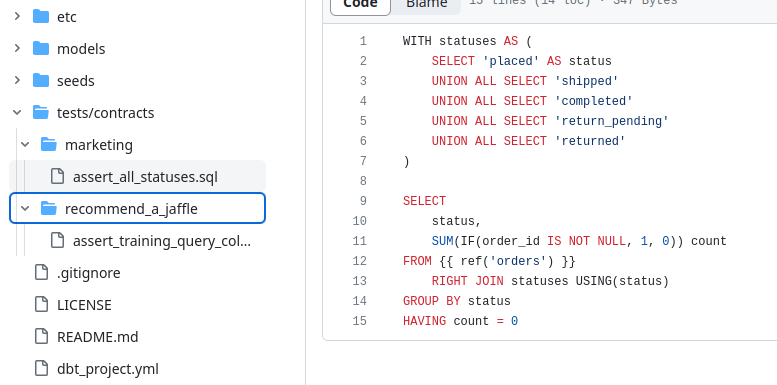
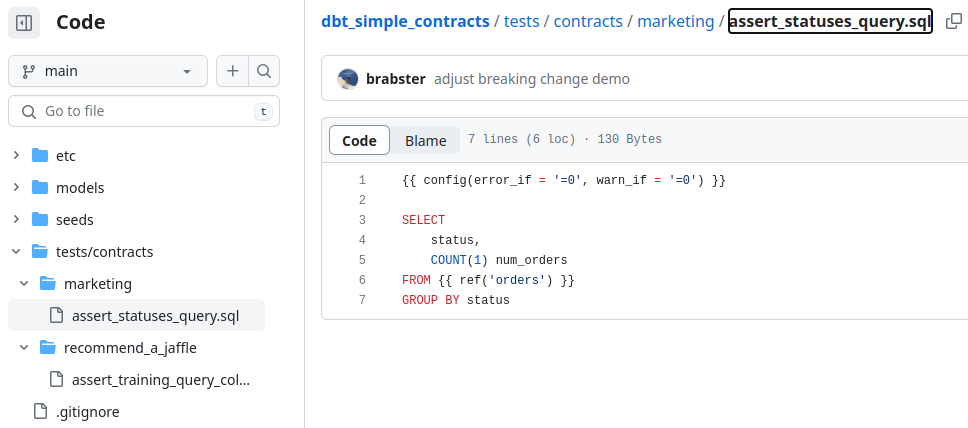
finalise post

diff --git a/content/posts/2023-05-19-dbt-contracts-in-sql/index.md b/content/posts/2023-05-19-dbt-contracts-in-sql/index.md
@@ -1,8 +1,9 @@
 ---
-title: Consumer-Driven Contracts SQL Data Products
+_build:
+  list: never
+title: Consumer-Driven Contracts for SQL Data Products
 date: 2023-05-19
 category: SQL
-draft: true
 tags:
  - dbt
  - sql
@@ -10,7 +11,7 @@ tags:
  - data-mesh
 ---
 
-> [dbt announced "model contracts"](https://docs.getdbt.com/docs/collaborate/govern/model-contracts) in the recent v1.5 release. This looks like a great feature for dbt, but reminded me that I've been using contract testing with dbt for a couple of years now, [inspired by Pact](https://docs.pact.io/), but never talked about it. Whilst dbt's new feature is very dbt-centric, the approach I've used isn't - dbt certainly helps, but isn't necessary.
+[dbt announced "model contracts"](https://docs.getdbt.com/docs/collaborate/govern/model-contracts) in the recent v1.5 release. This looks like a great feature for dbt, but reminded me that I've been using contract testing with dbt for a couple of years now, [inspired by Pact](https://docs.pact.io/) consumer-driven contracts, but never talked about it. There are some differences, for example: dbt's new feature is very dbt-centric, the approach I've used isn't - dbt certainly helps, but it isn't necessary. There's a [GitHub repo](https://github.com/brabster/dbt_simple_contracts) to follow along with.
 
 <!--more-->
 
@@ -22,21 +23,43 @@ tags:
 
 For an API-based digital product interface, a consumer-driven contract might say that in response to a query API call, the consumer expects a response in JSON containing a property "userId" that is a string. The provider can test any changes against the contract to ensure they do not break this expectation. The contract provides a means and a motivation for the consumer to clearly express important expectations.
 
-The technical specifics aren't important. The same approach works with the same benefits for a SQL-based digital product interface. In this case, the same contract might say that in response to a SQL query, the consumer expects a table result containing a column "userId" that is a string.
+The same approach works with the same benefits for a SQL-based digital product interface. In this case, the same contract might say that in response to a SQL query, the consumer expects a table result containing a column "userId" that is a string.
 
 ## The Digital Jaffle Shop
 
-I'll show you what I mean with [dbt-labs' Jaffle Shop demo project](https://github.com/dbt-labs/jaffle_shop) as our producer. In the lineage graph below, we can see some raw relations[^nomenclature] feeding some staging relations to produce a `customers` and an `orders` relation.
+I'll show you what I mean with [dbt-labs' Jaffle Shop demo project](https://github.com/dbt-labs/jaffle_shop) as our producer, and we are the product team looking after it. In the lineage graph below, we can see some raw relations[^nomenclature] feeding some staging relations to produce a `customers` and an `orders` relation.
 
 ![Lineage graph for the demo Jaffle Shop project with a line indicaing which relations are private and which are consumer-facing](Jaffle_shop_graph.png)
 
-The right-most relations, `customers` and `orders`, are our customer-facing interface. The "upstream" relations are implementation details and hidden from consumers, ideally by permissions. Besides potentially protecting more sensitive data, this hiding of implementation detail is important for stable contracts - you'll see why later.
+The right-most relations, `customers` and `orders`, are our customer-facing interface. The "upstream" relations are implementation details and hidden from consumers, ideally by permissions. Besides potentially protecting more sensitive data, this hiding of implementation detail from consumers is important for stable contracts. Without it, we lack the flexibility to adapt to change whilst holding the contract stable.
 
 Consumers can only see `orders` and `customers`, so we only accept contracts against these relations.
 
+## Jaffle Sales
+
+Marketing need to run a variety of ad-hoc reports about orders in the various order statuses. They don't want to come in one morning to find their queries don't work, so they want to make a contract. With our help them put together the PR for this SQL.
+
+```sql
+{{ config(error_if = '<3', warn_if = '<3') }} -- configure the test to fail if there are not enough statusres
+SELECT
+    status,
+    COUNT(1) num_orders
+FROM {{ ref('orders') }}
+WHERE status in ('complete', 'returned', 'return_pending')
+GROUP BY status
+```
+
+What expectations are expressed here?
+- this specific, important (to the consumer) query works
+- there's a `status` column
+- there's a row in the results for each of the specified statuses (by the `error_if` config)
+- the SQL dialect I'm using works with the provider's warehouse
+
+Well, it's maybe not how I would have written it but I understand it and it works. Let's move on.
+
 ## Recommend-A-Jaffle
 
-Marketing is convinced that the next big thing in the jaffle industry is recommendations, so we've got a new consumer. This consumer needs to know a little about customers and orders, then they'll join that with other information in the business and perform some machine learning magic.
+The CEO is convinced that the next big thing in the jaffle industry is recommendations, so we've got a new consumer. This consumer needs to know a little about customers and orders, then they'll join that with other information in the business and perform some machine learning magic.
 
 After some heavy duty, caffeine-fuelled data sciencing, the recommender team settles on this query to produce the data they need to train and test their model.:
 
@@ -52,41 +75,36 @@ WHERE order_date > CURRENT_DATE - INTERVAL 90 DAY
 
 The data produced by this query is munched by some machine learning models wrapped in Python code. The team building the consumer product is working flat out and could really do with some reliability from the producer, so they're happy to pop a ticket on the board to set up a contract with the Jaffle Shop producer.
 
-## A Simple Contract
-
 The recommender team could start simple with the query as it stands as a contract. We can turn it into an efficient test that the expected columns are present like this:
 
 ```sql
 SELECT
-    customer_id,
-    order_id,
-    order_date,
-    status
+    customer_id + 1, -- number
+    order_id + 1, -- number
+    order_date + INTERVAL 1 DAY, -- date-like
+    status || 'x' -- string
 FROM {{ ref('orders') }}
-LIMIT 0
 ```
 
-If a column is missing, the query will error out. If it succeeds, in most modern data warehouses, it will be optimised away by the `LIMIT 0`.
+Those operations on each column look a bit weird, but they effectively assert column type and generally produce a reasonably informative error message. I'm not making a statement on correctness of that approach, but if a consumer proposed it as a contract I'd have a hard time arguing the clarity and simplicity of it! If a column is missing, the query will error out.
 
-What the recommender team wants now is a way to provide this test to the Jaffle Shop team in such a manner that it must pass before a change can be rolled out. I'll show you what I think is the simplest way to do that next.
+What both teams need is a way to provide their tests to the Jaffle Shop team in such a manner that it must pass before a change can be rolled out. I'll show you what I think is the simplest way to do that next.
 
-## A Simple Provide Contract Test Setup
+## A Simple Provider Contract Test Setup
 
-We can just create a subdirectory of `tests/contract` in our `dbt` project, and have each consumer contribute their tests directly via a merge or pull request process. `dbt` will, by default, run their tests as part of a `build` or `test` operation.
-
-Wait - a second consumer just showed up. Marketing need to run reports about how many orders are in the various order statuses. They want to make a contract too, so we help them put together the PR and we're left with this structure.
+We create a subdirectory of `tests/contract` in our dbt project. We'll have each consumer contribute their tests directly via a merge or pull request process. dbt will, by default, run their tests as part of a `build` or `test` operation.
 
 ![Screenshot of repository showing the contracts directory structure with a marketing dir containing the marketing test and a recommend_a_jaffle dir containing the recommender test](contracts_examples.png)
 
 Let's run a `dbt test` for everything under contracts and see what happens...
 
 ```bashsession
-jaffle_shop$ dbt test -s tests/contracts
+jaffle_shop$ dbt test -s contracts
 ...
-21:29:39  1 of 2 START test assert_all_statuses .......................................... [RUN]
-21:29:39  1 of 2 PASS assert_all_statuses ................................................ [PASS in 0.07s]
-21:29:39  2 of 2 START test assert_training_query_columns ................................ [RUN]
-21:29:39  2 of 2 PASS assert_training_query_columns ...................................... [PASS in 0.04s]
+21:29:39  1 of 2 START test assert_all_statuses ...................... [RUN]
+21:29:39  1 of 2 PASS assert_all_statuses ............................ [PASS in 0.07s]
+21:29:39  2 of 2 START test assert_training_query_columns ............ [RUN]
+21:29:39  2 of 2 PASS assert_training_query_columns .................. [PASS in 0.04s]
 21:29:39  
 21:29:39  Finished running 2 tests in 0 hours 0 minutes and 0.25 seconds (0.25s).
 21:29:39  
@@ -97,42 +115,100 @@ jaffle_shop$ dbt test -s tests/contracts
 
 So far so good - if the consumers had submitted a contract test that didn't work against the current product then our pull request process would have caught it and prevented any confusion.
 
-## Move Fast and Break Stuff. Or Not.
+## Roles and Responsibilities
 
-Let's make a dumb change that obviously breaks things - let's rename  a column - `status` to `order_status`.
-We make the changes and run `dbt build --exclude tests/contracts` - all green. When we run the contract tests:
+When a consumer team submit their PR, we have an opportunity to take a look and request changes before accepting. The recommender team's contract, for example, could be expensive as it actually processes every row in the relation, even though it's really just doing a schema test. Depending on our database technology, we could ask them to use to the information schema to do that, or just add a `LIMIT 0` so that the query optimiser can recognise that no processing in necessary and optimise it away.
+
+A key consideration in my approach to this is that the provider is not forced to accept a consumer contract.
+Providers are naturally incentivised to try to accept consumer contracts. Amongst the stability and insights benefits, a consumer-driven contract capability shifts some responsiblity for stability from the producer onto consumers. A consumer can't really blame a provider for breaking somehing they never said they needed. Feels kinda liberating, actually.
+The provider needs to be able to refuse unreasonable or incorrect expecations, so that the emphasis is on a collaborative effort between equal parties for mutual benefit.
+
+A note on usage - a lot of insight into expecatations can be gleaned from reviewing usage logs - which queries were run, by whom, when. I've found some challenges in doing this well, in particular that without "platform" support, a provider on a modern data warehouse won't have the usage information as it will have been logged in the consumer's account or project which the producer won't have access to. Even if it worked well, a contract allows a consumer to express a critically important query that **must work**, but is only run run, say, once a year as part of financial year end reporting.
+
+## Move Fast and (Don't) Break Stuff
+
+The Jaffle Shop data sources are seed `.csv` files. The column types are [inferred from the data](https://docs.getdbt.com/faqs/seeds/seed-datatypes). That means that in the Jaffle Shop data, IDs are integers. The product team notices this unexpected behaviour and decides to fix it (in principle IDs are strings, not integers and on the data warehouse technology they use, strings are more efficient as join keys). They start that change, adding a snippet of YAML to `dbt_package.yml`, telling dbt to treat `order_id` (which is column `id` in seed `raw_orders`) as an string.
+
+```yml
+seeds:
+  jaffle_shop:
+    raw_orders:
+      +column_types:
+        id: varchar
+```
+
+They refresh the seeds and run a full build...
 
 ```bashsession
-jaffle_shop$ dbt test -s tests/contracts
-...
-21:40:40  1 of 2 START test assert_all_statuses .......................................... [RUN]
-21:40:40  1 of 2 ERROR assert_all_statuses ............................................... [ERROR in 0.07s]
-21:40:40  2 of 2 START test assert_training_query_columns ................................ [RUN]
-21:40:40  2 of 2 ERROR assert_training_query_columns ..................................... [ERROR in 0.05s]
-21:40:40  
-21:40:40  Finished running 2 tests in 0 hours 0 minutes and 0.27 seconds (0.27s).
-21:40:40  
-21:40:40  Completed with 2 errors and 0 warnings:
-21:40:40  
-21:40:40  Runtime Error in test assert_all_statuses (tests/contracts/marketing/assert_all_statuses.sql)
-21:40:40    Binder Error: Column "status" does not exist on left side of join!
-21:40:40  
-21:40:40  Runtime Error in test assert_training_query_columns (tests/contracts/recommend_a_jaffle/assert_training_query_columns.sql)
-21:40:40    Binder Error: Referenced column "status" not found in FROM clause!
-21:40:40    Candidate bindings: "orders.order_status"
-21:40:40  
-21:40:40  Done. PASS=0 WARN=0 ERROR=2 SKIP=0 TOTAL=2
+jaffle_shop$ dbt seed --full-refresh && dbt build --exclude contracts
+05:45:48  Running with dbt=1.5.0
+05:45:48  Found 5 models, 22 tests, 0 snapshots, 0 analyses, 313 macros, 0 operations, 3 seed files, 0 sources, 0 exposures, 0 metrics, 0 groups
+...snip...
+05:45:55  28 of 28 START test unique_orders_order_id ................. [RUN]
+05:45:55  28 of 28 PASS unique_orders_order_id ....................... [PASS in 0.04s]
+05:45:55  
+05:45:55  Finished running 3 seeds, 3 view models, 20 tests, 2 table models in 0 hours 0 minutes and 2.74 seconds (2.74s).
+05:45:55  
+05:45:55  Completed successfully
+05:45:55  
+05:45:55  Done. PASS=28 WARN=0 ERROR=0 SKIP=0 TOTAL=28
 ```
-Boom! Our tests all passed, but the contract tests failed. We know this change would break our consumers, so we can adjust our approach accordingly.
+
+Voila, nothing broke[^rigged]. This is a Safe Change ™. Let's check the contracts.
+
+
+```bashsession
+jaffle_shop$ dbt test -s contracts
+06:13:16  Running with dbt=1.5.0
+06:13:16  Found 5 models, 22 tests, 0 snapshots, 0 analyses, 313 macros, 0 operations, 3 seed files, 0 sources, 0 exposures, 0 metrics, 0 groups
+06:13:16  
+06:13:17  Concurrency: 1 threads (target='dev')
+06:13:17  
+06:13:17  1 of 2 START test assert_statuses_query .................... [RUN]
+06:13:17  1 of 2 PASS assert_statuses_query .......................... [PASS in 0.07s]
+06:13:17  2 of 2 START test assert_training_query_columns ............ [RUN]
+06:13:17  2 of 2 ERROR assert_training_query_columns ................. [ERROR in 0.04s]
+06:13:17  
+06:13:17  Finished running 2 tests in 0 hours 0 minutes and 0.26 seconds (0.26s).
+06:13:17  
+06:13:17  Completed with 1 error and 0 warnings:
+06:13:17  
+06:13:17  Runtime Error in test assert_training_query_columns (tests/contracts/recommend_a_jaffle/assert_training_query_columns.sql)
+06:13:17    Binder Error: No function matches the given name and argument types '+(VARCHAR, INTEGER)'. You might need to add explicit type casts.
+06:13:17        Candidate functions:
+06:13:17        +(TINYINT) -> TINYINT
+06:13:17        +(TINYINT, TINYINT) -> TINYINT
+```
+Boom! Our tests all passed, but the contract tests failed. We know this change breaks our consumers' expectations, so we can adjust our approach accordingly.
+We might choose to project a new column that is string-typed alongside the int-typed column, to make the change non-breaking and allow consumers time to update. **Crucially we, the provider, know which consumers are affected and why, and we didn't find out by breaking them!** That's a really solid foundation to build trust and understanding on.
+
+## Comparison to dbt Model Contracts
+
+I've not yet played with the new contracts functionality, let alone used it in anger. My goal here is to get my own thoughts and experience clear, so this is a quick comparison based on my reading of the [documentation](https://docs.getdbt.com/docs/collaborate/govern/model-contracts) in May 2023 - it's shiny new functionality so the documentation may have changed by the time you read this.
+
+dbt's current documentation doesn't say anything about consumer-driven contracts. Having consumers be able to express any need they have and having traceability back to who needs it is my basic goal in coming up with this approach. A contract that the provider creates for themselves isn't what I'm trying to achieve.
+
+The current dbt contract approach prohibits arbitrary queries as tests and explicitly only supports schema-based constraints. This means that there must be a translation from what the consumer needs to what dbt contracts accept. It's also clear that there are expectations that consumers may not express, because they involve data quality. This reminds me of a surprise I had with [dbt analyses](https://docs.getdbt.com/docs/build/analyses) back in the day - I expected to be able to use them as part of the test suite but in fact they are only compiled. Maybe you can set things up to use your existing analyses as contracts...
+
+Does that matter? If I am a consumer of your "employee" data, and I expect the values in the "employee_id" column to be unique, or the values in "status" to be one of a set of values, I'd like a way of expressing that to you in a runnable form. When you look at my PR, you can correct my understanding if it's incorrect, and you can catch changes that would break that expectation. In the event that the issue is introduced in one of your sources and you are running regular automated data quality testing, you will catch that in your test run and be able to react more effectively knowing what the problem is and who is affected.
+
+## Downsides
+
+This approach will be making some assumptions about the environment, for example use of git-based processes, automated testing and environment setups. Perhaps a future post describing the setup I advocate for and why.
+
+The cost of running the contracts will likely be attributed to the provider team, not the consumer team. That doesn't seem like a big deal, in my experience the internal dbt test suite is way more involved and expensive than the contracts, and there's value in the provider understanding the consumer needs that likely outweighs the cost for an organisation.
+
+Contracts may effectively duplicate the same tests - not a big deal in my experience. You also can't use the declarative tests that dbt provides via YAML schemas, as far as I can tell - there can be only one definition of tests on a column. Not something that's caused me any problems in practice so far.
 
 ## Summary
 
-I've described a way of accepting contract test from your consumers and incorporating them into your development process.
-Your consumers have full access to the power of SQL to make their assertions, and whilst `dbt` streamlines things, it's not strictly necessary that either provider or consumer uses it - the approach hinges on SQL can be adapted to suit your tooling.
+I think that consumer-driven contracts are important to run [Data as a Product](https://martinfowler.com/articles/data-mesh-principles.html#DataAsAProduct), one of the four [Data Mesh Principles](https://martinfowler.com/articles/data-mesh-principles.html) (no apologies for being a fan!). A neat thing about the approach I've outlined is that the benefits come with no need for additional software, services, or "data plaform". I prefer a more "living off the land", using tools I'm already using - in this case source control, a CI system, SQL and  optionally dbt. Less to learn for me, less to learn for everyone I'm working with.
 
-Whilst you can use selectors to control when the contract tests run in your process, the simplicity of this approach has some downsides. You need to manage pull or merge requests into your repository based on directory structure, and I can't see a way for consumers to use `dbt`'s powerful declarative tests, like `not_null` and `unique`.
+In the approach outlined here , your consumers have full access to the power of SQL to make their assertions, and whilst dbt streamlines things, it's not strictly necessary that either provider or consumer uses it - the approach hinges on SQL can be adapted to suit your tooling. I think the only really dbt-specific thing I've used is `ref` - and if you're not using dbt, you'll have your own solution to swap out references if you need to change them as part of your quality assurance.
 
 A more flexible and powerful approach would have a separate repo for your contract tests.
-It's more to setup and manage, but gives access to the full capabilities and ease of use of `dbt` for contracts. Your consumers can define their queries as models and then make fine-grained assertions for them. You can deploy their models into a separate, suitably permissioned schema or database where they can be inspected for additional diagnostic capabilities.
+It's more to setup and manage, but gives access to the full capabilities and ease of use of dbt for contracts. Your consumers can define their queries as models and then make fine-grained assertions for them. You can deploy their models into a separate, suitably permissioned schema or database where they can be inspected for additional diagnostic capabilities.
 
 [^nomenclature]: I use the less common term [`relation`](https://en.wikipedia.org/wiki/Relation_(database)) rather than `view` or `table` because a `relation` isn't specific and could be eitherI avoid `model` as it is a dbt-specific implementation detail rather than the interface consumers actually interact with.
+
+[^rigged]: No, I didnt rig the tests. Made the change and the tests just all passed. Surprised me too, but it was quite useful for this post!
